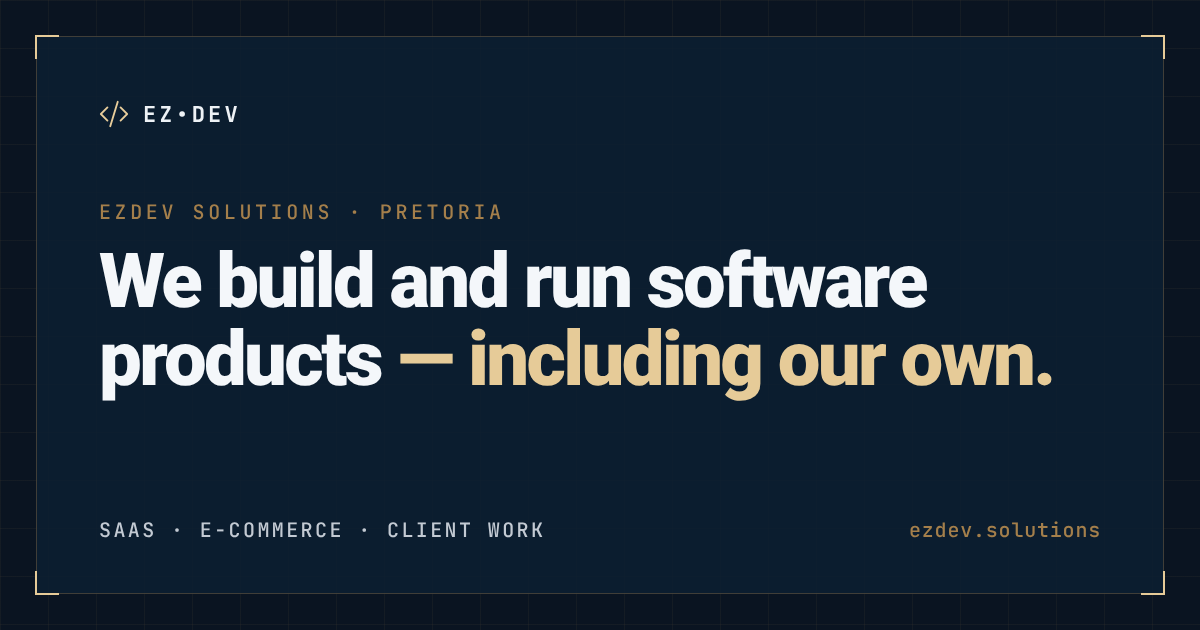
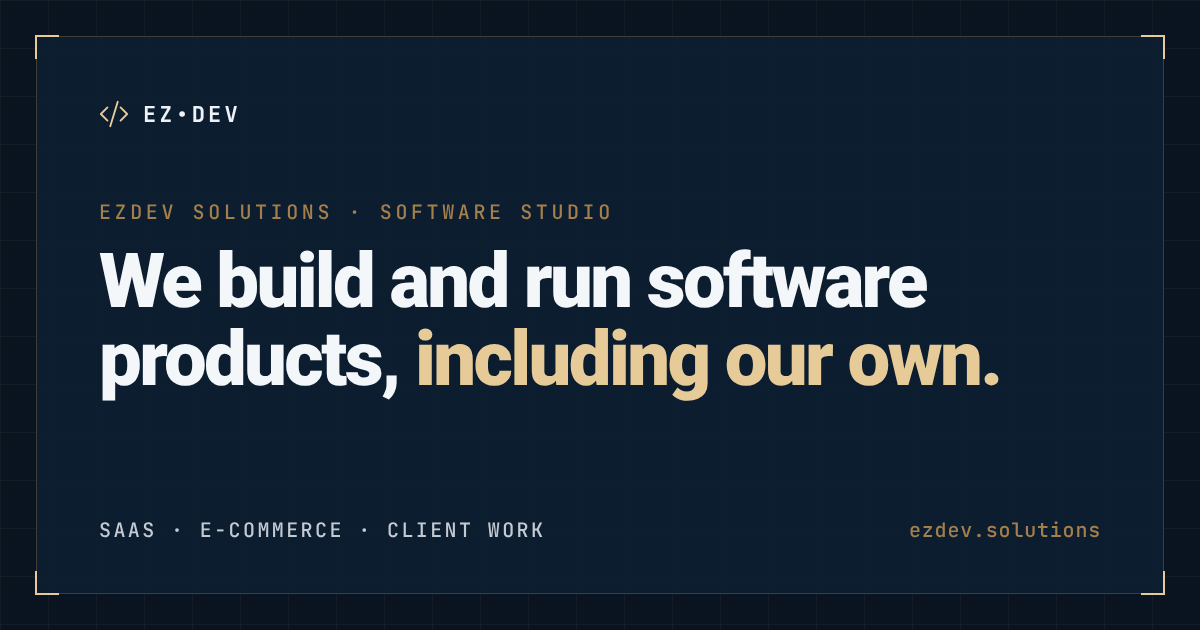
Drop location mentions and em dashes; add TanStack; reword founder intro
- Remove Pretoria/ZA/UTC+2 from the banner (now just availability),
  hero eyebrow and lead, footer blurb, site description, home title,
  /about photo card and the share image. The footer Contact column
  keeps "Pretoria, South Africa" as the site's address line.
- No em dashes in rendered copy: the hero reads "We build and run
  software products, including our own." (EN + AF, share image too).
- Founder intro no longer mentions the move out of retail.
- Stack: add TanStack to "Also comfortable with". The AF list had
  drifted from EN (still listed Node.js, JavaScript, Agile/Scrum and
  not React); it now mirrors EN.

Claude-Session: https://claude.ai/code/session_01E6efqKNEsBsgy9nxGchcuU

Changed region(s): [[0.3083, 0.5127, 0.8942, 0.6333], [0.37, 0.3016, 0.4933, 0.3619], [0.3083, 0.3317, 0.3392, 0.3619]]

diff --git a/assets/config/translations.ts b/assets/config/translations.ts
@@ -96,11 +96,10 @@ export const translations: Translations = new Map([
       ["nav-contact", "Contact"],
       ["nav-privacy", "Privacy"],
       ["nav-available", "AVAILABLE FOR SELECT PROJECTS"],
-      ["nav-location", "PRETORIA, ZA · UTC+2"],
       ["nav-start-project", "START A PROJECT"],
 
       // SEO Titles
-      ["home-title", "EZdev Solutions · Software studio in Pretoria"],
+      ["home-title", "EZdev Solutions · Software studio"],
       ["about-title", "About"],
       ["skills-title", "Skills"],
       ["qualifications-title", "Qualifications"],
@@ -335,11 +334,10 @@ export const translations: Translations = new Map([
       ["nav-contact", "Kontak"],
       ["nav-privacy", "Privaatheid"],
       ["nav-available", "BESKIKBAAR VIR SELEKTE PROJEKTE"],
-      ["nav-location", "PRETORIA, ZA · UTC+2"],
       ["nav-start-project", "BEGIN 'N PROJEK"],
 
       // SEO Titles
-      ["home-title", "EZdev Solutions · Sagteware-ateljee in Pretoria"],
+      ["home-title", "EZdev Solutions · Sagteware-ateljee"],
       ["about-title", "Oor"],
       ["skills-title", "Vaardighede"],
       ["qualifications-title", "Kwalifikasies"],

diff --git a/nuxt.config.ts b/nuxt.config.ts
@@ -18,7 +18,7 @@ export default defineNuxtConfig({
         process.env.NUXT_PUBLIC_SITE_URL || "https://www.ezdev.solutions",
       siteName: "EZdev Solutions",
       siteDescription:
-        "Pretoria software studio. We design, build and run SaaS platforms and e-commerce for our own products and for clients.",
+        "Software studio. We design, build and run SaaS platforms and e-commerce for our own products and for clients.",
       siteImage: "/media/og-image.png",
       turnstileSiteKey: process.env.NUXT_PUBLIC_TURNSTILE_SITE_KEY || "",
     },
@@ -113,7 +113,7 @@ export default defineNuxtConfig({
     url: process.env.NUXT_PUBLIC_SITE_URL || "https://www.ezdev.solutions",
     name: "EZdev Solutions",
     description:
-      "Pretoria software studio. We design, build and run SaaS platforms and e-commerce for our own products and for clients.",
+      "Software studio. We design, build and run SaaS platforms and e-commerce for our own products and for clients.",
   },
   seo: {
     meta: {

diff --git a/components/ui/nav.vue b/components/ui/nav.vue
@@ -29,9 +29,6 @@ watch(() => route.fullPath, () => (isOpen.value = false));
         <span aria-hidden="true" class="size-1.5 rounded-full bg-light-gold md:size-[7px]" />
         {{ banner.available }}
       </span>
-      <span aria-hidden="true" class="hidden h-3 w-px bg-primary-gold/50 sm:block" />
-      <span class="sr-only">·</span>
-      <span>{{ banner.location }}</span>
     </p>
   </div>
 

diff --git a/content.config.ts b/content.config.ts
@@ -127,7 +127,7 @@ const qualifications = z.object({
 const field = z.object({ label: z.string(), placeholder: z.string() });
 
 const site = z.object({
-  banner: z.object({ available: z.string(), location: z.string() }),
+  banner: z.object({ available: z.string() }),
   nav: z.object({
     work: z.string(),
     services: z.string(),

diff --git a/types/content.ts b/types/content.ts
@@ -163,7 +163,7 @@ export interface ThankYouContent {
 }
 
 export interface SiteContent {
-  banner: { available: string; location: string };
+  banner: { available: string };
   nav: {
     work: string;
     services: string;
